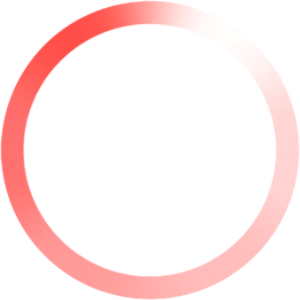
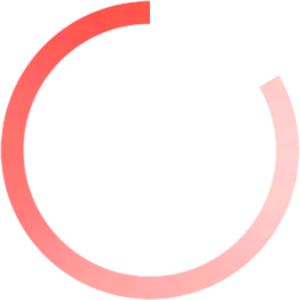
edited loader and some ui elements

Changed region(s): [[0.39, 0.0, 0.63, 0.09], [0.87, 0.24, 0.93, 0.33]]

diff --git a/pages/RestaurantList.js b/pages/RestaurantList.js
@@ -1,5 +1,5 @@
 import React, {useState, useEffect} from 'react';
-import {SafeAreaView, ScrollView, StatusBar, StyleSheet, View, BackHandler, Alert} from "react-native";
+import {SafeAreaView, ScrollView, StatusBar, StyleSheet, View, BackHandler, Alert, ImageBackground, Dimensions} from "react-native";
 import MenuButton from "../component/MenuButton";
 import SearchButton from "../container/SearchButton";
 import RestaurantButton from "../component/RestaurantButton";
@@ -73,7 +73,7 @@ const styles = StyleSheet.create({
     container: {
         flex: 1,
         flexDirection: 'column',
-        backgroundColor: '#fff',
+        backgroundColor: 'white',
         justifyContent: 'center',
         alignItems: 'center',
         marginTop: StatusBar.currentHeight
@@ -84,9 +84,10 @@ const styles = StyleSheet.create({
         width: '90%',
         alignItems: 'center',
         justifyContent: 'space-between',
-        padding: 5
+        paddingVertical: '2%',
     },
     scroll: {
         width: '100%',
+        backgroundColor: '#eeeeee'
     }
 });

diff --git a/component/BackButton.js b/component/BackButton.js
@@ -5,7 +5,7 @@ const BackButton = (props) => {
     return (
         <View style = {props.style}>
             <TouchableOpacity style = {styles.container} onPress = {props.onPress}>
-                <Image style = {styles.image} source ={require('../assets/backbutton.png')} />
+                <Image style = {styles.image} source ={require('../assets/whiteback.png')} />
             </TouchableOpacity>
         </View>
     )

diff --git a/component/DishButton.js b/component/DishButton.js
@@ -23,11 +23,8 @@ export default DishButton
 const styles = StyleSheet.create({
     container: {
         width: '90%',
-        height: Dimensions.get('window').height * 0.1,
+        height: Dimensions.get('window').height * 0.12,
         justifyContent: 'space-evenly',
-        borderColor: '#404040',
-        marginTop: '2%',
-        padding: '1%'
     },
     text: {
         width: '100%',

diff --git a/pages/RestaurantPage.js b/pages/RestaurantPage.js
@@ -73,9 +73,8 @@ const reviewStyles = StyleSheet.create({
         flexDirection: 'row',
         justifyContent: 'flex-start',
         alignItems: 'center',
-        height: Dimensions.get('window').height * 0.04,
+        height: Dimensions.get('window').height * 0.06,
         width: '90%',
-        paddingTop: '2%'
     },
     addButton: {
         height: 13,

diff --git a/container/SearchButton.js b/container/SearchButton.js
@@ -33,10 +33,8 @@ export default SearchButton
 const styles = StyleSheet.create({
 
     container: {
-        backgroundColor: '#DBDBDB',
+        backgroundColor: '#d9d9d9',
         borderRadius: 20,
-        borderWidth: 1,
-        borderColor: '#DBDBDB',
         width: '90%',
         height: 40,
         paddingHorizontal: 15,
